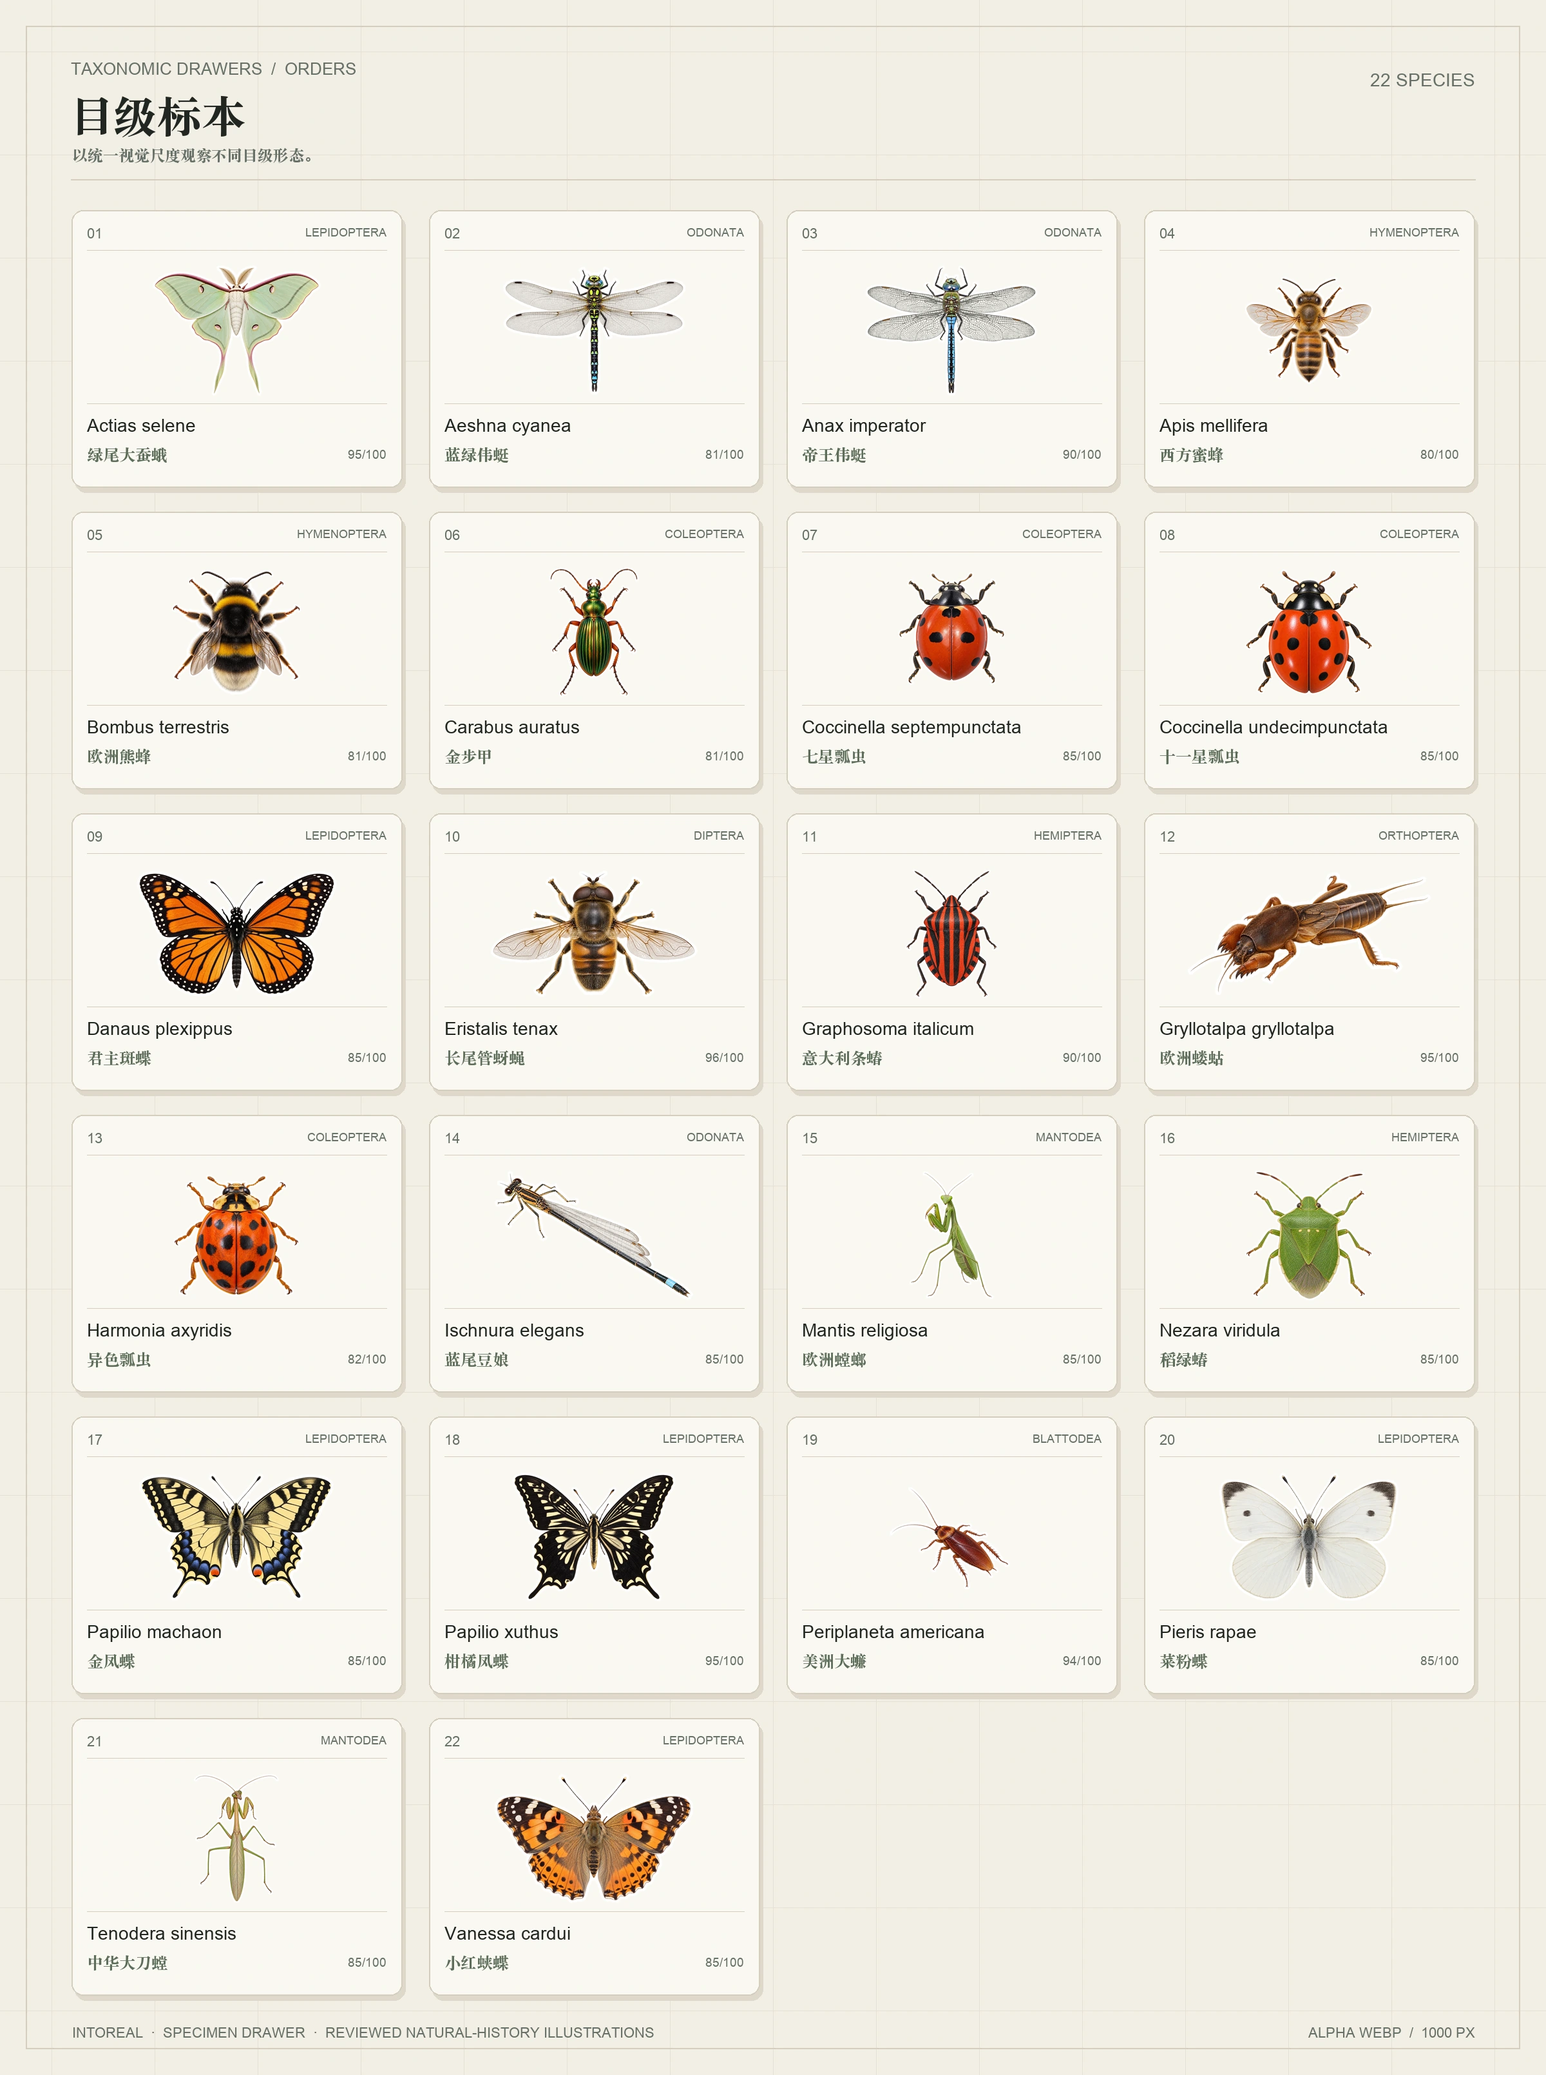
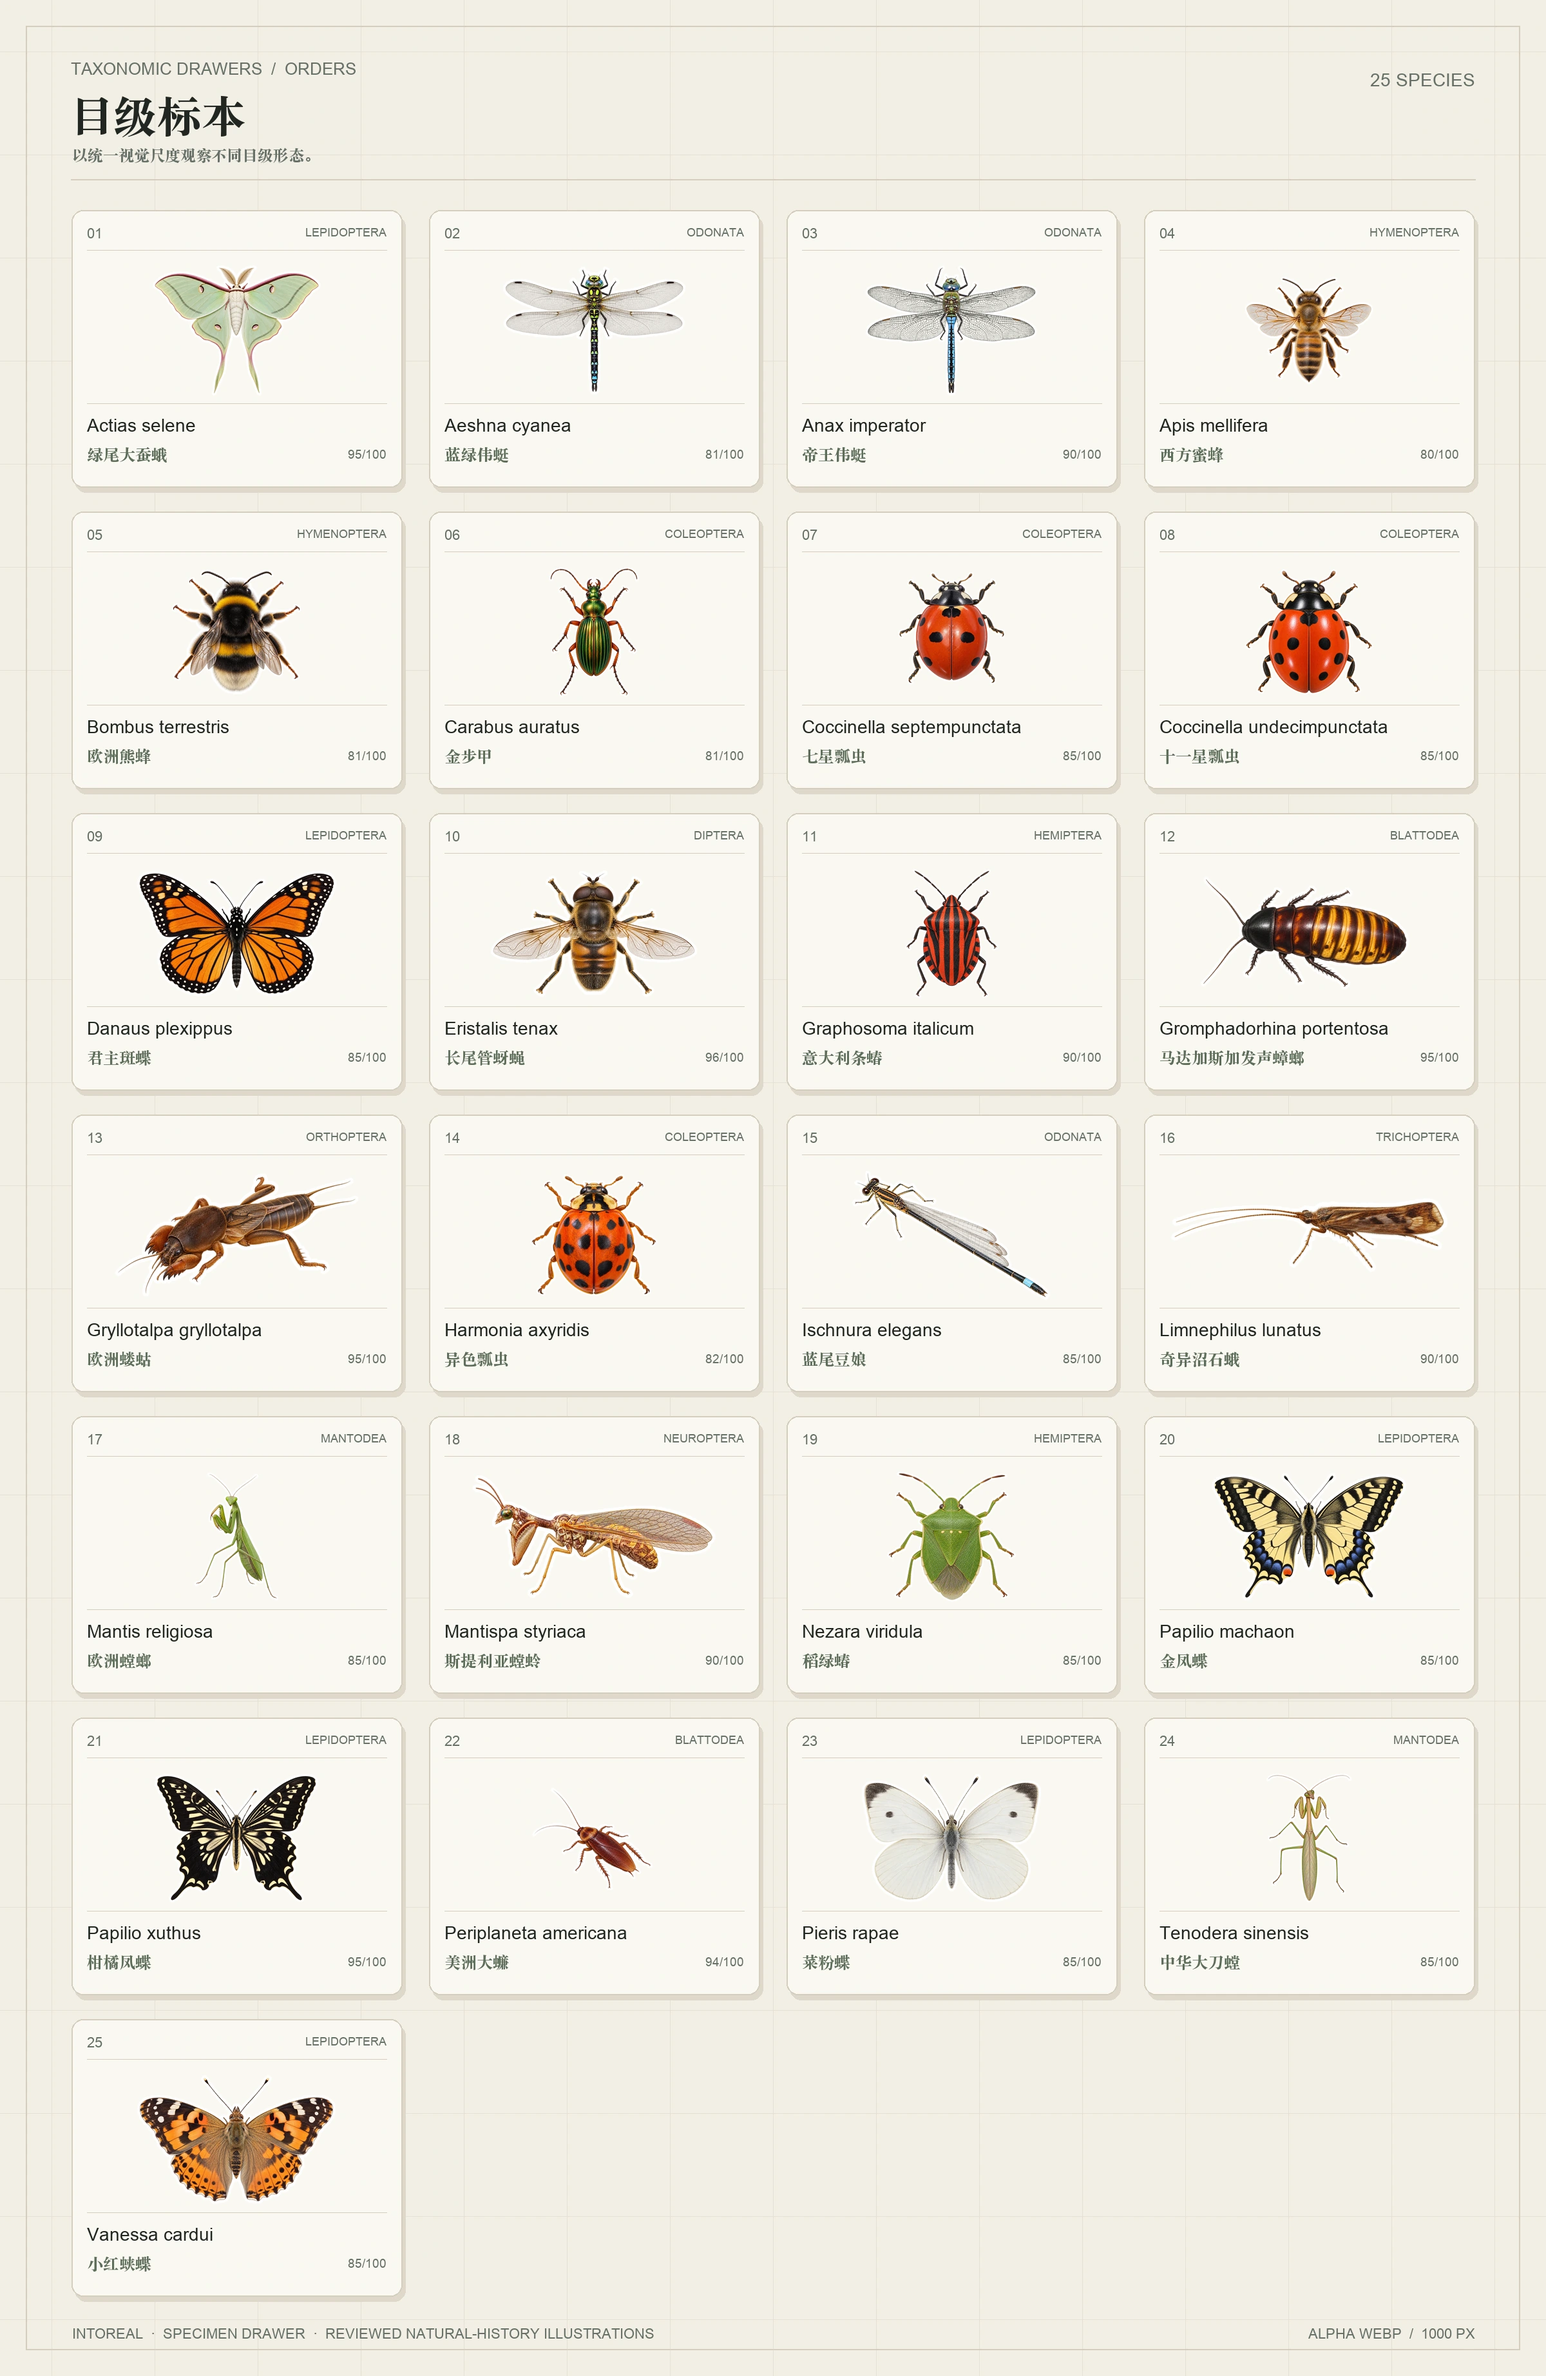
data: publish second expansion batch

diff --git a/README.md b/README.md
@@ -6,7 +6,7 @@
 
 **English** · [简体中文](README.zh-Hans.md)
 
-The public library currently contains **22 reviewed species across 9 orders and 14 families**. Additional species are added only after passing the same reference, generation, technical and independent review pipeline. The dataset currently uses **46 language codes**, with coverage varying by the labels actually available in Wikidata.
+The public library currently contains **25 reviewed species across 11 orders and 17 families**. Additional species are added only after passing the same reference, generation, technical and independent review pipeline. The dataset currently uses **46 language codes**, with coverage varying by the labels actually available in Wikidata.
 
 **License in short:** stickers and previews may be used, copied, modified and shared, including commercially, **except to provide a competing IntoREAL insect-identification or illustrated field-guide product**. Credit IntoReal-insect-sticker with a link to this repository. Project-compiled data is MIT; third-party material keeps its own terms. See [LICENSE.md](LICENSE.md) and [NOTICE.md](NOTICE.md).
 
@@ -27,6 +27,18 @@ Every image below is generated from the approved public stickers. Only species t
 ### Mole crickets · *Gryllotalpidae* — 1 species
 
 ![Mole crickets](previews/families/gryllotalpidae.webp)
+
+### Mantisflies · *Mantispidae* — 1 species
+
+![Mantisflies](previews/families/mantispidae.webp)
+
+### Caddisflies · *Limnephilidae* — 1 species
+
+![Caddisflies](previews/families/limnephilidae.webp)
+
+### Giant cockroaches · *Blaberidae* — 1 species
+
+![Giant cockroaches](previews/families/blaberidae.webp)
 
 ### Cockroaches · *Blattidae* — 1 species
 
@@ -89,10 +101,10 @@ Every image below is generated from the approved public stickers. Only species t
 | `data/species.csv` | The same core data flattened for spreadsheets |
 | `data/names.csv` | Names in 46 language codes, including regional variants |
 | `data/languages.json` | Language codes and their sources |
-| `data/field-guide.zh-Hans.json` | Chinese appearance, identification and similar-species notes for 22 species, CC BY-SA 4.0 |
+| `data/field-guide.zh-Hans.json` | Chinese appearance, identification and similar-species notes for 25 species, CC BY-SA 4.0 |
 | `data/candidates-20.json` | The first formal candidate set, including 3 blocked items not admitted to the public dataset |
 | `data/candidates-next.json` | The completed 3-species expansion batch |
-| `data/candidates-expansion-30.json` | Evidence matrix for 30 candidates across 6 orders and 6 continental sampling regions, with 2 published pilots and 1 blocked locust; expansion-02 adds 3 pilot-ready tasks |
+| `data/candidates-expansion-30.json` | Evidence matrix for 30 candidates across 6 orders and 6 continental sampling regions, with 2 published pilots and 1 blocked locust; expansion-02 adds 3 published species |
 | `previews/` | Header, hero, order and family specimen drawers |
 | `scripts/` | Codex CLI pipeline, Issue worker, v2 task generator, metadata enrichment and preview rendering |
 | `tests/` | Standard-library regression tests for task validation, isolated review, retry, replacement and Issue closure; run `python3 -m unittest discover -s tests -v` |
@@ -142,12 +154,12 @@ A record looks like this (some fields are omitted for readability):
 
 ## Coverage
 
-- **Published stickers:** 22 species across 9 orders and 14 families.
+- **Published stickers:** 25 species across 11 orders and 17 families.
 - **Names:** 46 language codes, sourced from Wikidata labels where available; missing labels remain empty rather than being machine-translated.
-- **Identifiers:** all 22 species have exact-match GBIF and Wikidata IDs, plus taxonomic authority from GBIF.
+- **Identifiers:** all 25 species have exact-match GBIF and Wikidata IDs, plus taxonomic authority from GBIF.
 - **Conservation:** 6 species currently have an IUCN LC record from Wikidata; other conservation fields remain empty when no claim exists.
 - **Traits:** 3 species currently have a wingspan record from Wikidata; unsupported traits are not inferred.
-- **Chinese field guide:** 22 species with appearance, identification and similar-species notes.
+- **Chinese field guide:** 25 species with appearance, identification and similar-species notes.
 - **Blocked candidates:** Pantala flavescens, Lucilia sericata, Vespa mandarinia and Schistocerca gregaria remain outside the public sticker dataset because they did not meet the quality bar.
 
 The initial candidate set is not a claim of worldwide or regional completeness. New species are appended through the same production and review process.

diff --git a/README.zh-Hans.md b/README.zh-Hans.md
@@ -6,7 +6,7 @@
 
 [English](README.md) · **简体中文**
 
-当前公开图鉴包含 **9 个目、14 个科的 22 个已审核物种**。后续物种只有在通过同一套参考、生成、技术检查和独立审核流程后才会加入。当前数据使用 **46 个语言代码**，具体名称覆盖以 Wikidata 实际存在的标签为准。
+当前公开图鉴包含 **11 个目、17 个科的 25 个已审核物种**。后续物种只有在通过同一套参考、生成、技术检查和独立审核流程后才会加入。当前数据使用 **46 个语言代码**，具体名称覆盖以 Wikidata 实际存在的标签为准。
 
 **许可简述：** 贴纸和预览图可以用于任何用途，包括商用、复制、修改和再分发，**唯一的例外是提供与 IntoReal 竞争的昆虫识别或图鉴产品**。使用时注明 IntoReal-insect-sticker 并附仓库链接即可。项目整理的数据采用 MIT，第三方材料保留各自条款。详见 [LICENSE.md](LICENSE.md) 和 [NOTICE.md](NOTICE.md)。
 
@@ -27,6 +27,18 @@
 ### 蝼蛄科 · *Gryllotalpidae* — 1 种
 
 ![蝼蛄科](previews/families/gryllotalpidae.webp)
+
+### 螳蛉科 · *Mantispidae* — 1 种
+
+![螳蛉科](previews/families/mantispidae.webp)
+
+### 沼石蛾科 · *Limnephilidae* — 1 种
+
+![沼石蛾科](previews/families/limnephilidae.webp)
+
+### 折翅蠊科 · *Blaberidae* — 1 种
+
+![折翅蠊科](previews/families/blaberidae.webp)
 
 ### 蜚蠊科 · *Blattidae* — 1 种
 
@@ -89,10 +101,10 @@
 | `data/species.csv` | 核心数据的表格展开版本 |
 | `data/names.csv` | 46 个语言代码的名称，包括地区变体 |
 | `data/languages.json` | 语言代码及来源 |
-| `data/field-guide.zh-Hans.json` | 22 个物种的中文形态、辨识和相似种说明，CC BY-SA 4.0 |
+| `data/field-guide.zh-Hans.json` | 25 个物种的中文形态、辨识和相似种说明，CC BY-SA 4.0 |
 | `data/candidates-20.json` | 首批正式候选，其中 3 个 blocked 项不进入公开贴纸库 |
 | `data/candidates-next.json` | 已完成生产的 3 个扩充物种 |
-| `data/candidates-expansion-30.json` | 6 目、6 个洲际采样区域的 30 种证据矩阵，3 个试点中 2 种已发布、1 种保持 blocked；expansion-02 另有 3 种待生产，其余候选尚未获准生图 |
+| `data/candidates-expansion-30.json` | 6 目、6 个洲际采样区域的 30 种证据矩阵，3 个试点中 2 种已发布、1 种保持 blocked；expansion-02 另有 3 种已发布，其余候选尚未获准生图 |
 | `previews/` | 首页、目级和科级标本图版 |
 | `scripts/` | Codex CLI 流水线、Issue worker、v2 任务包生成、元数据补充和预览渲染脚本 |
 | `tests/` | 任务校验、独立审核、技术重试、修订替换和 Issue 收尾的回归测试；运行 `python3 -m unittest discover -s tests -v` |
@@ -142,12 +154,12 @@
 
 ## 覆盖情况
 
-- **公开贴纸：** 9 个目、14 个科的 22 个物种。
+- **公开贴纸：** 11 个目、17 个科的 25 个物种。
 - **名称：** 46 个语言代码，使用 Wikidata 实际标签；缺失标签保持为空，不做机器翻译补全。
-- **标识：** 22 个物种均具有精确匹配的 GBIF 和 Wikidata ID，以及 GBIF 命名权威。
+- **标识：** 25 个物种均具有精确匹配的 GBIF 和 Wikidata ID，以及 GBIF 命名权威。
 - **保护状态：** 目前 6 个物种具有来自 Wikidata 的 IUCN LC 记录；没有声明的保护字段保持为空。
 - **形态数据：** 目前 3 个物种具有 Wikidata 翅展记录；其他没有证据的形态字段不作推断。
-- **中文图鉴：** 22 个物种的形态、辨识和相似种说明。
+- **中文图鉴：** 25 个物种的形态、辨识和相似种说明。
 - **Blocked 候选：** 黄蜻、丝光绿蝇、金环胡蜂和沙漠蝗因未达到质量标准，未进入公开贴纸数据集。
 
 首批候选不代表全球或地区完整性。后续物种也必须经过相同的生产和审核流程。

diff --git a/data/README.md b/data/README.md
@@ -10,10 +10,10 @@
 | `species.csv` | `species.json` 的表格展开版本 | 同上 |
 | `names.csv` | 物种学名与当前可用语言名称 | 项目整理部分 MIT；Wikidata 标签 CC0 |
 | `languages.json` | 当前名称字段及来源 | MIT |
-| `field-guide.zh-Hans.json` | 22 个已发布物种的中文形态、辨识和相似种说明 | CC BY-SA 4.0；basedOn 记录分类与形态依据 |
+| `field-guide.zh-Hans.json` | 25 个已发布物种的中文形态、辨识和相似种说明 | CC BY-SA 4.0；basedOn 记录分类与形态依据 |
 | `candidates-20.json` | 首批 20 种生产候选及参考元数据，不代表已通过审核 | 项目整理部分 MIT；参考照片保留各自许可 |
 | `candidates-next.json` | 已完成生产的 3 个扩充物种及参考元数据 | 项目整理部分 MIT；参考照片保留各自许可 |
-| `candidates-expansion-30.json` | 30 种证据矩阵，含分类、采样地区、参考视角、作者、许可与核验状态；试点 3 种中 2 种已发布、1 种 blocked，expansion-02 另有 3 种待生产，仅通过双审者公开 | 项目整理部分 MIT；参考照片保留各自许可 |
+| `candidates-expansion-30.json` | 30 种证据矩阵，含分类、采样地区、参考视角、作者、许可与核验状态；试点 3 种中 2 种已发布、1 种 blocked，expansion-02 另有 3 种已发布，仅通过双审者公开 | 项目整理部分 MIT；参考照片保留各自许可 |
 
 ## 贴纸路径
 
